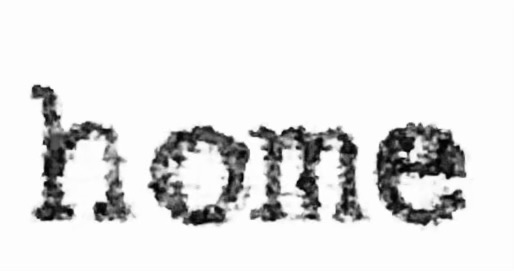
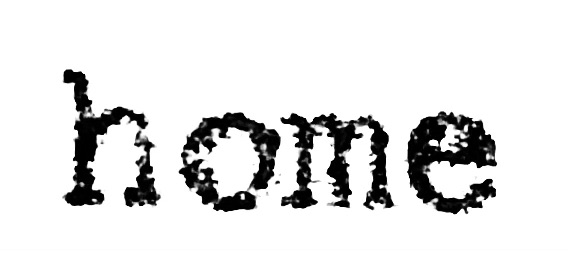
small fixes

Changed region(s): [[0.0623, 0.2767, 0.9339, 0.8577]]

diff --git a/contact.html b/contact.html
@@ -13,7 +13,7 @@
 <body>
 	<header>
 		<div class="topnav" id="myTopnav">
-			<a href="home.html"><img src="img/navbar/home.jpeg" width="42"></a>
+			<a href="home.html"><img src="img/navbar/home.jpeg" width="48"></a>
 		  	<a href="shows.html"><img src="img/navbar/shows.jpeg" width="55"></a>
 		  	<a href="media.html"><img src="img/navbar/media.jpeg" width="55"></a>
 		  	<a href="contact.html"><img src="img/navbar/contact.jpeg" width="70"></a>

diff --git a/dilac3042.html b/dilac3042.html
@@ -13,7 +13,7 @@
 <body>
 	<header>
 		<div class="topnav" id="myTopnav">
-			<a href="home.html"><img src="img/navbar/home.jpeg" width="42"></a>
+			<a href="home.html"><img src="img/navbar/home.jpeg" width="48"></a>
 		  	<a href="shows.html"><img src="img/navbar/shows.jpeg" width="55"></a>
 		  	<a href="media.html"><img src="img/navbar/media.jpeg" width="55"></a>
 		  	<a href="contact.html"><img src="img/navbar/contact.jpeg" width="70"></a>

diff --git a/home.html b/home.html
@@ -13,7 +13,7 @@
 <body>
 	<header>
 		<div class="topnav" id="myTopnav">
-			<a href="home.html"><img src="img/navbar/home.jpeg" width="42"></a>
+			<a href="home.html"><img src="img/navbar/home.jpeg" width="48"></a>
 		  	<a href="shows.html"><img src="img/navbar/shows.jpeg" width="55"></a>
 		  	<a href="media.html"><img src="img/navbar/media.jpeg" width="55"></a>
 		  	<a href="contact.html"><img src="img/navbar/contact.jpeg" width="70"></a>

diff --git a/media.html b/media.html
@@ -13,7 +13,7 @@
 <body>
 	<header>
 		<div class="topnav" id="myTopnav">
-			<a href="home.html"><img src="img/navbar/home.jpeg" width="42"></a>
+			<a href="home.html"><img src="img/navbar/home.jpeg" width="48"></a>
 		  	<a href="shows.html"><img src="img/navbar/shows.jpeg" width="55"></a>
 		  	<a href="media.html"><img src="img/navbar/media.jpeg" width="55"></a>
 		  	<a href="contact.html"><img src="img/navbar/contact.jpeg" width="70"></a>

diff --git a/shows.html b/shows.html
@@ -13,7 +13,7 @@
 <body>
 	<header>
 		<div class="topnav" id="myTopnav">
-			<a href="home.html"><img src="img/navbar/home.jpeg" width="42"></a>
+			<a href="home.html"><img src="img/navbar/home.jpeg" width="48"></a>
 		  	<a href="shows.html"><img src="img/navbar/shows.jpeg" width="55"></a>
 		  	<a href="media.html"><img src="img/navbar/media.jpeg" width="55"></a>
 		  	<a href="contact.html"><img src="img/navbar/contact.jpeg" width="70"></a>

diff --git a/css/style.css b/css/style.css
@@ -188,6 +188,11 @@ footer img {
 }
 
 
+@media screen and (max-width: 450px) {
+	.showcase img {
+		width:  95%;	
+	}
+}
 
 
 /*****************************************************************************************************/
